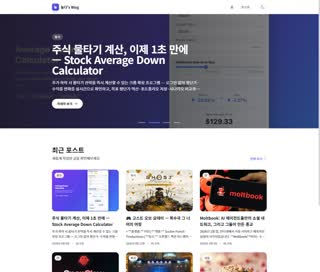
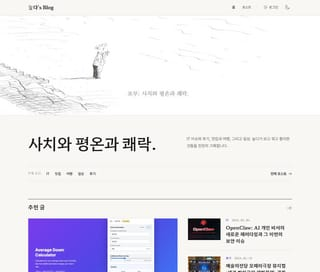
feat(projects): Noopdaa Blog 링크를 noopdaa.com으로, 블로그 스크린샷 갱신
GitHub 링크 대신 라이브 링크 하나만 둔다. 블로그 디자인이 바뀌어 홈과
포스트 목록 화면을 라이트 테마로 다시 캡처했다. 관리자 화면(3·4·5)은 그대로.

diff --git a/app/lib/data/projects.ts b/app/lib/data/projects.ts
@@ -159,7 +159,7 @@ export const projects: Project[] = [
       { id: 'noopdaa-blog-5', width: 1000, height: 856 },
     ],
     links: {
-      github: 'https://github.com/UihyunJung/noopdaa-blog',
+      live: 'https://noopdaa.com',
     },
   },
 ];
